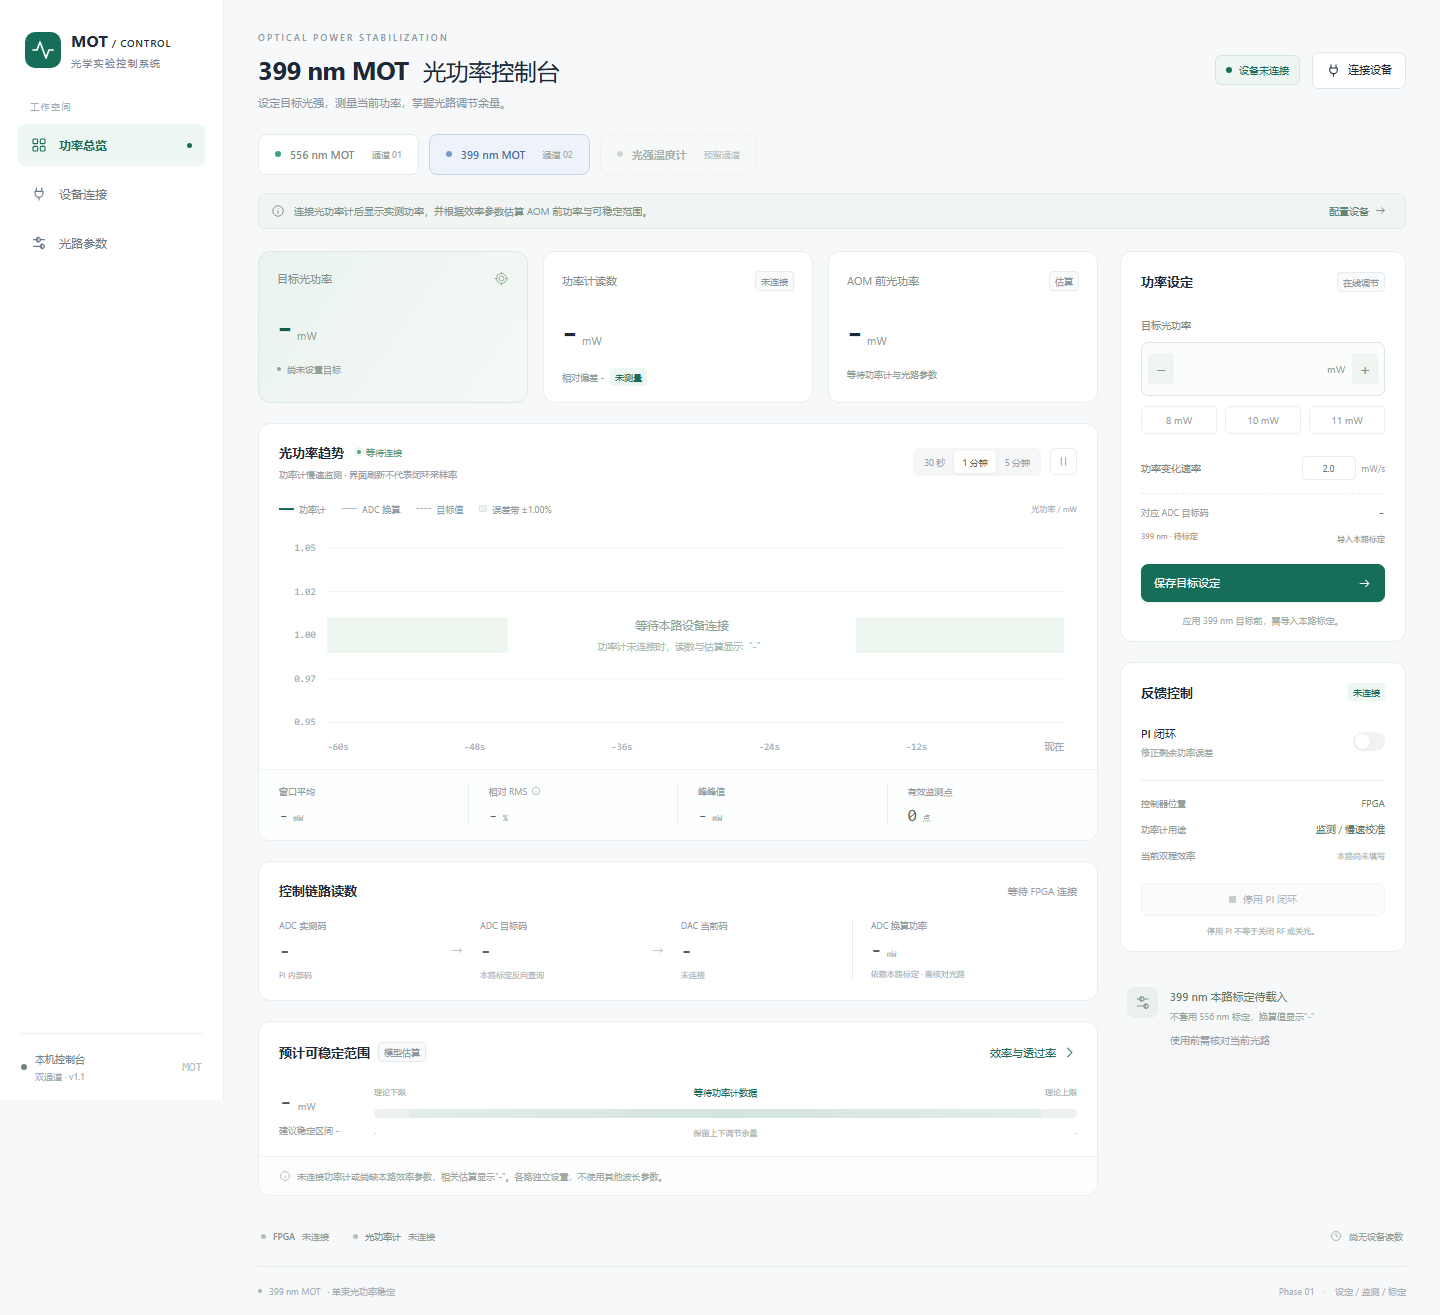
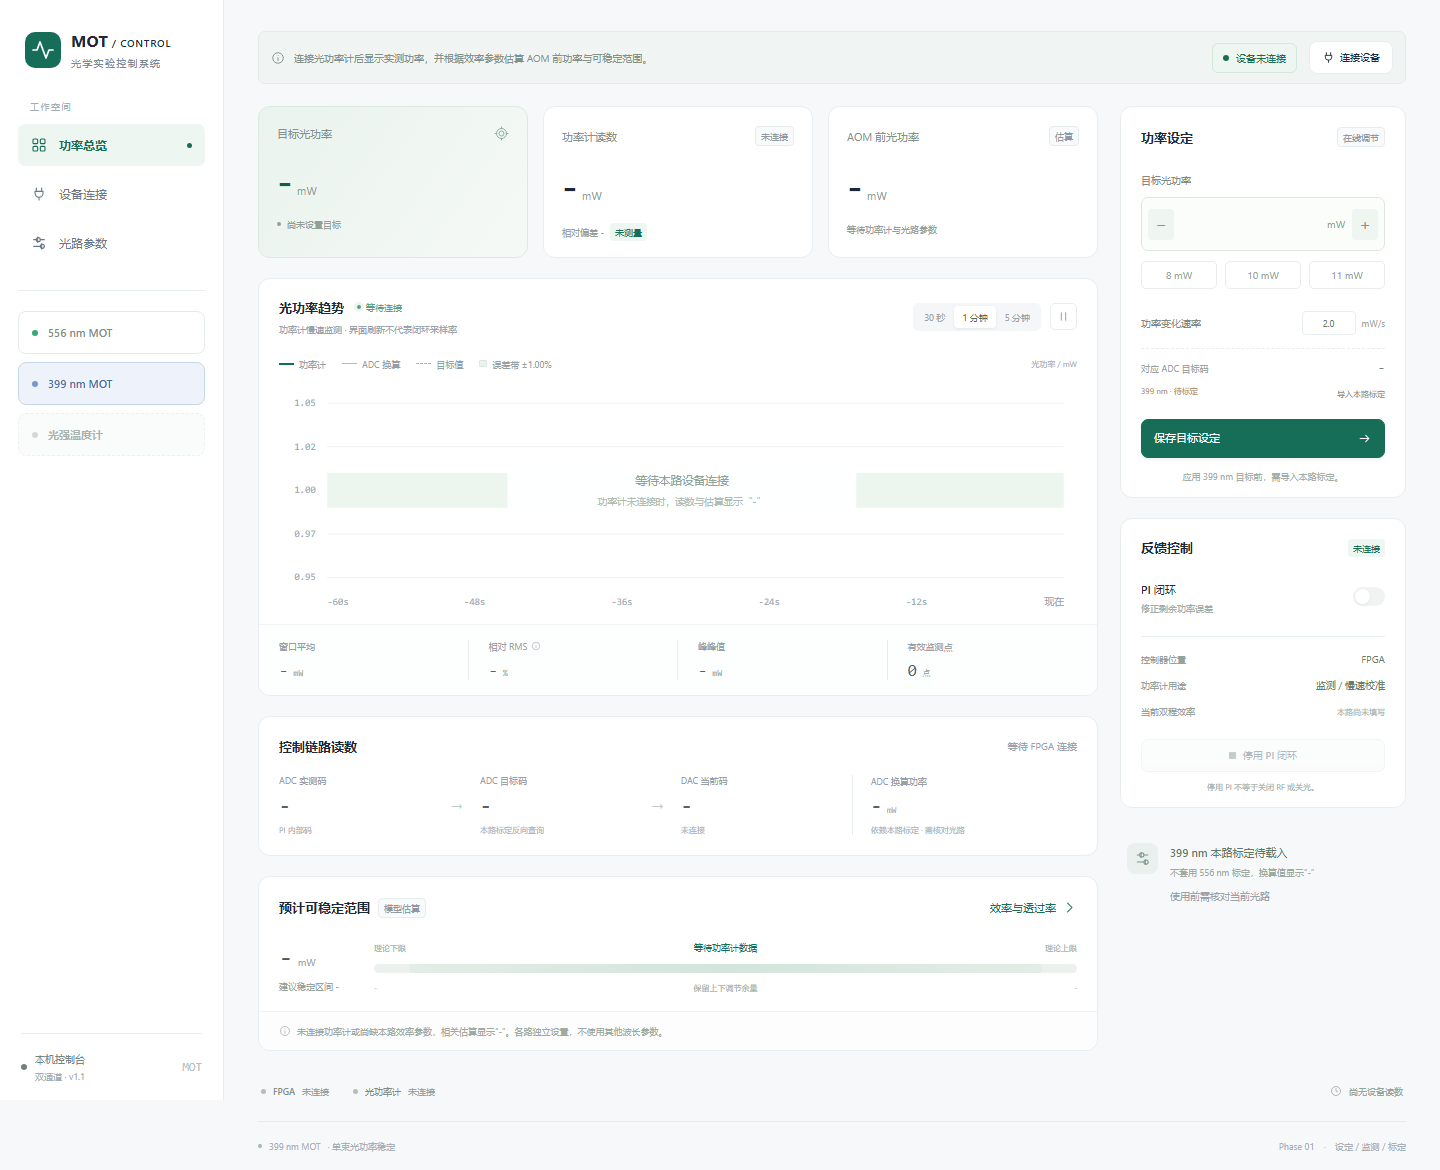
Move optical channel selection into sidebar

diff --git a/index.html b/index.html
@@ -37,19 +37,18 @@
 <button class="nav-item" id="nav-devices"><svg><use href="#i-plug"/></svg>设备连接</button>
 <button class="nav-item" id="nav-parameters"><svg><use href="#i-sliders"/></svg>光路参数</button>
 </nav>
+  <div class="sidebar-channels" aria-orientation="vertical" role="tablist" aria-label="光路通道">
+<button class="channel-tab active" id="channel-556" role="tab" aria-selected="true" data-channel="556"><i class="channel-dot green"></i><strong>556<span class="channel-suffix"> nm MOT</span></strong></button>
+<button class="channel-tab" id="channel-399" role="tab" aria-selected="false" data-channel="399"><i class="channel-dot blue"></i><strong>399<span class="channel-suffix"> nm MOT</span></strong></button>
+<button class="channel-tab reserved" id="channel-future" role="tab" aria-selected="false" disabled title="后续接入"><i class="channel-dot gray"></i><strong>光强温度计</strong></button>
+</div>
 
  <div class="sidebar-bottom"><span class="small-dot"></span><span>本机控制台<small>双通道 · v1.1</small></span><span class="bottom-mark">MOT</span></div>
 </aside>
 <div class="shell">
 
  <main>
-  <section class="page-intro"><div><div class="eyebrow">OPTICAL POWER STABILIZATION</div><h1><b id="channel-title">556 nm MOT</b> <span>光功率控制台</span></h1><p>设定目标光强，测量当前功率，掌握光路调节余量。</p></div><div class="intro-actions"><span class="mode-pill hardware" id="mode-pill"><span class="small-dot"></span><span id="mode-text">设备未连接</span></span><button class="button" id="connect-button"><svg><use href="#i-plug"/></svg>连接设备</button></div></section>
-  <div class="channel-tabs" role="tablist" aria-label="光路通道">
-<button class="channel-tab active" id="channel-556" role="tab" aria-selected="true" data-channel="556"><i class="channel-dot green"></i><strong>556 nm MOT</strong><span>通道 01</span></button>
-<button class="channel-tab" id="channel-399" role="tab" aria-selected="false" data-channel="399"><i class="channel-dot blue"></i><strong>399 nm MOT</strong><span>通道 02</span></button>
-<button class="channel-tab reserved" id="channel-future" role="tab" aria-selected="false" disabled title="后续接入"><i class="channel-dot gray"></i><strong>光强温度计</strong><span>预留通道</span></button>
-</div>
-  <div class="mode-notice" id="mode-notice"><svg><use href="#i-info"/></svg><span id="notice-text">连接光功率计后显示实测功率，并根据效率参数估算 AOM 前功率与可稳定范围。</span><button id="notice-action">配置设备 <svg><use href="#i-arrow"/></svg></button></div>
+  <div class="mode-notice" id="mode-notice"><svg><use href="#i-info"/></svg><span id="notice-text">连接光功率计后显示实测功率，并根据效率参数估算 AOM 前功率与可稳定范围。</span><div class="intro-actions"><span class="mode-pill hardware" id="mode-pill"><span class="small-dot"></span><span id="mode-text">设备未连接</span></span><button class="button" id="connect-button"><svg><use href="#i-plug"/></svg>连接设备</button></div></div>
 
   <section class="view" id="view-overview" aria-label="功率总览">
    <div class="dashboard-grid">

diff --git a/app.js b/app.js
@@ -101,7 +101,7 @@
     catch (e) { $('service-state').textContent = e.message; }
   }
   function openConnect() { const s = current(); $('serial-port').value = s.port; $('meter-serial').value = s.serial; $('connection-error').textContent = ''; $('connection-feedback').textContent = `${channelId} nm · 连接时只读，不自动应用目标。`; $('connect-dialog').showModal(); inspectService(); }
-  ['connect-button', 'notice-action', 'nav-devices'].forEach(id => $(id).onclick = openConnect); $('refresh-ports').onclick = inspectService;
+  ['connect-button', 'nav-devices'].forEach(id => $(id).onclick = openConnect); $('refresh-ports').onclick = inspectService;
   $('serial-port').addEventListener('input', () => { current().port = $('serial-port').value.trim(); });
   $('meter-serial').addEventListener('input', () => { current().serial = $('meter-serial').value.trim(); });
   async function connect(kind) {
@@ -173,7 +173,7 @@
   function statusText(status) { const a = [[1, '丢光'], [2, 'ADC 过量程'], [4, '输出饱和'], [8, '积分到限'], [16, '反馈冻结'], [32, 'ADC 时钟停止']].filter(([b]) => status & b).map(([, s]) => s); return a.length ? a.join(' / ') : '正常'; }
   function render() {
     const s = current(), config = s.config, cal = s.calibration, r = readings(s), f = r.f, m = r.m, busy = anyBusy();
-    $('channel-title').textContent = `${channelId} nm MOT`; $('footer-channel').textContent = `${channelId} nm MOT`;
+    $('footer-channel').textContent = `${channelId} nm MOT`;
     document.title = `${channelId} nm MOT · PID Control Console`;
     $('connect-dialog-title').textContent = `连接 ${channelId} nm 设备`; $('range-dialog-title').textContent = `${channelId} nm · AOM 功率与范围估算`;
     $('meter-wavelength-note').textContent = `使用本机 TLPMX 64 位驱动，连接后设置并回读 ${channelId} nm。`;

diff --git a/styles.css b/styles.css
@@ -12,3 +12,10 @@ h1>b{font-weight:650}.channel-tabs{display:flex;gap:10px;margin:0 0 18px}.channe
 @media(max-width:600px){.channel-tabs{gap:6px;flex-wrap:wrap}.channel-tab{padding:10px;gap:6px}.channel-tab strong{font-size:10px}.channel-tab.reserved strong{font-size:9px}}
 
 .sidebar-bottom{margin-top:auto}
+
+.sidebar-channels{display:flex;flex-direction:column;gap:8px;margin-top:26px;padding-top:20px;border-top:1px solid var(--border)}
+.sidebar-channels .channel-tab{width:100%;text-align:left;padding:13px;gap:10px}
+.mode-notice .intro-actions{margin-left:auto;flex-shrink:0}
+.mode-notice .button{display:inline-flex;background:#fff;border:1px solid var(--border);padding:8px 12px;border-radius:8px;color:var(--ink)}
+@media(max-width:1050px){.sidebar-channels .channel-tab{justify-content:center;padding:12px 2px}.sidebar-channels .channel-dot,.sidebar-channels .channel-suffix{display:none}.sidebar-channels .reserved strong{font-size:9px;line-height:1.6}.mode-notice{flex-wrap:wrap}}
+@media(max-width:600px){.mode-notice #notice-text{flex:1}.mode-notice .intro-actions{width:100%;margin-top:6px}.sidebar-channels .channel-tab strong{font-size:11px}.sidebar-channels .reserved strong{font-size:9px}}
